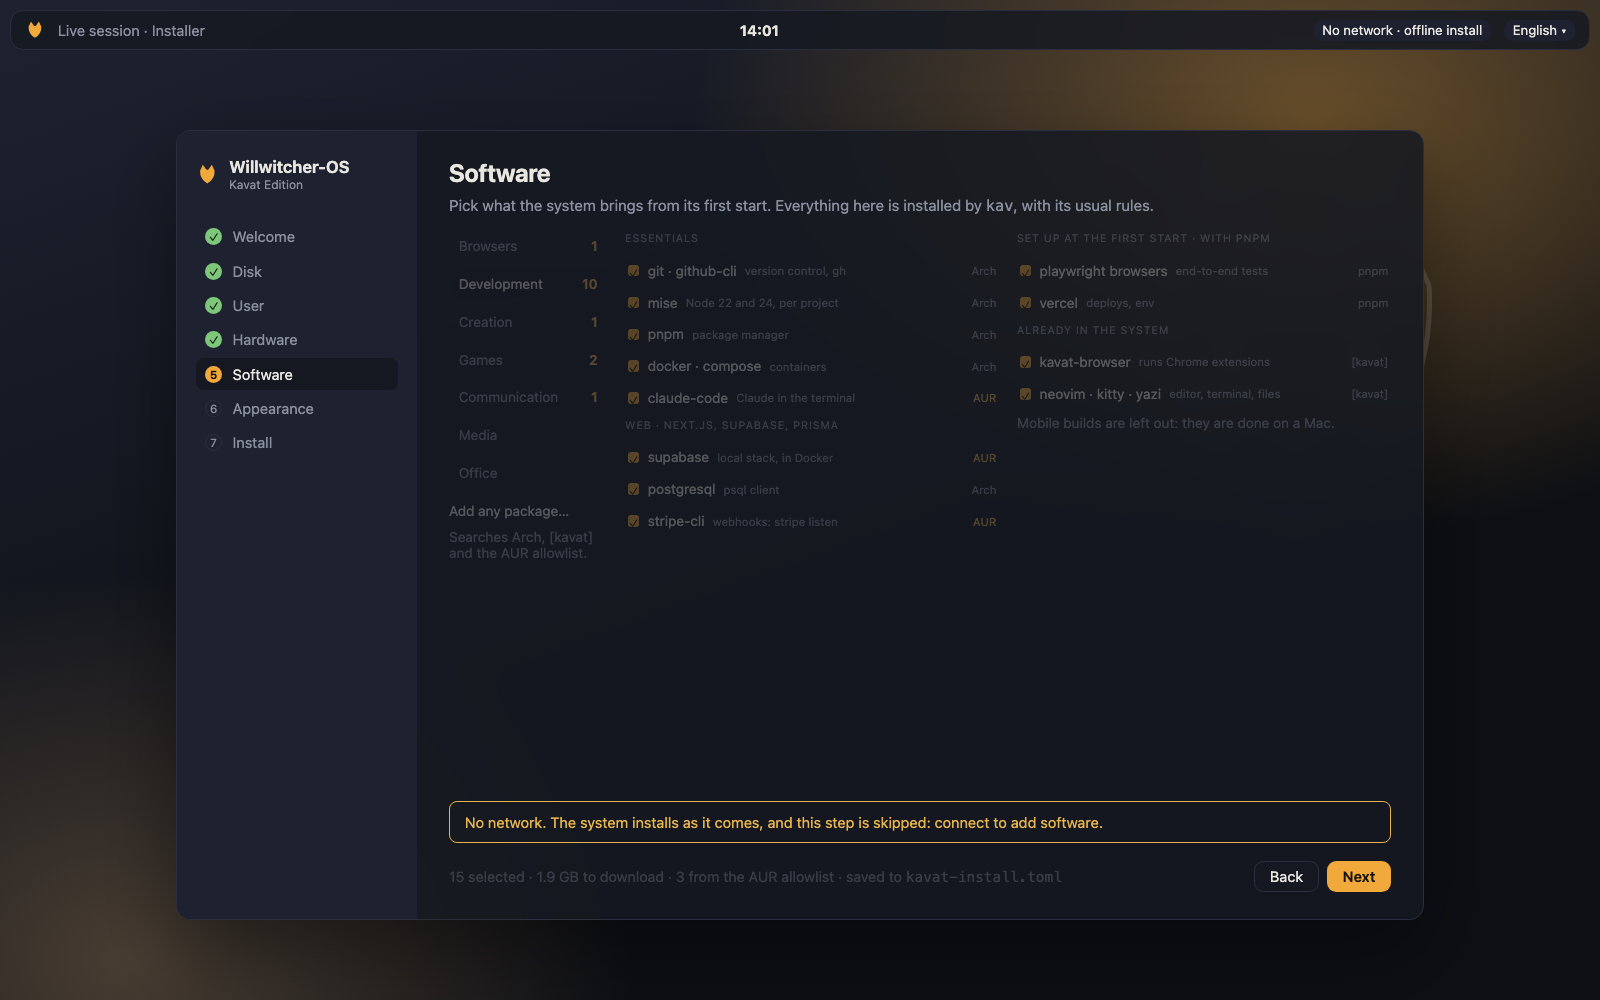
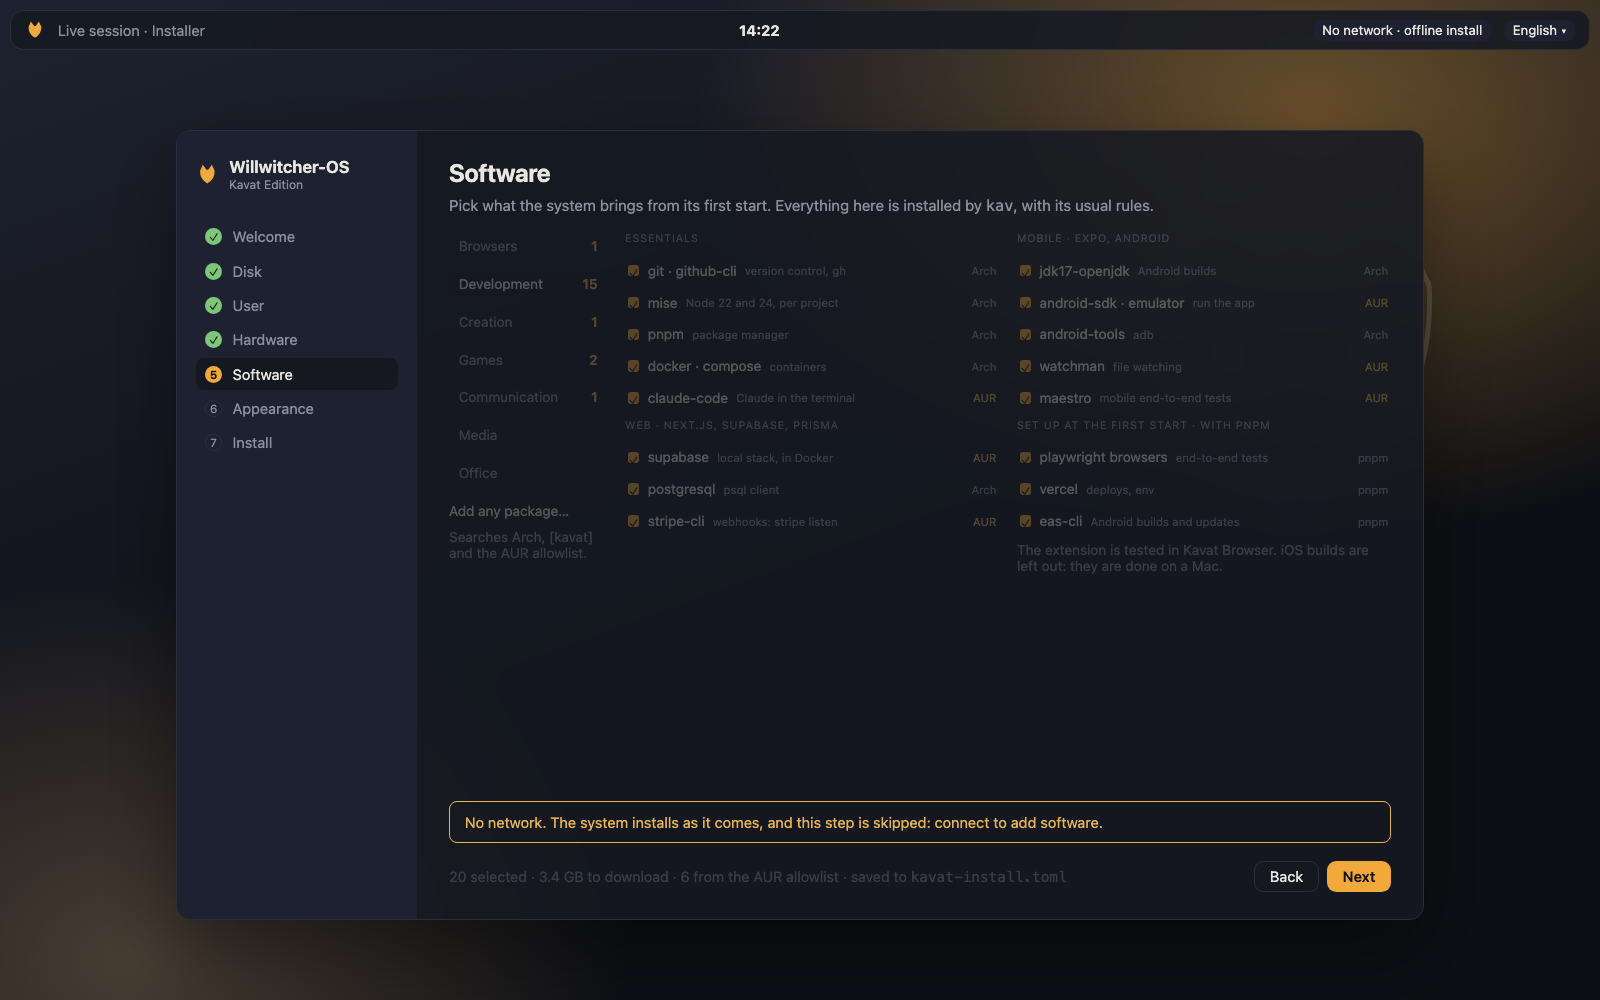
Design: Development keeps the mobile tools, for Android
The mobile group returns to the installer's Development category, limited to
what can be built and tested on the Arch PC: JDK 17, the Android SDK with its
emulator, android-tools, watchman and maestro, plus eas-cli through pnpm.
iOS builds stay on a Mac.

Design document and mockup follow; the two installer-software screenshots are
retaken.

diff --git a/docs/mockup/index.html b/docs/mockup/index.html
@@ -1040,10 +1040,10 @@ body.lit:not(.bare) .monitor{animation:lit 1.15s ease-in-out infinite alternate}
         <h2>Software</h2>
         <p>Pick what the system brings from its first start. Everything here is installed by <span class="mono">kav</span>, with its usual rules.</p>
         <div class="sw3">
-          <div><div class="scat ">Browsers<b>1</b></div><div class="scat on">Development<b>10</b></div><div class="scat ">Creation<b>1</b></div><div class="scat ">Games<b>2</b></div><div class="scat ">Communication<b>1</b></div><div class="scat ">Media</div><div class="scat ">Office</div><div class="find" style="margin-top:.4em">Add any package…</div><div class="muted" style="white-space:normal">Searches Arch, [kavat] and the AUR allowlist.</div></div><div><div class="sec">Essentials</div><div class="pk on"><i>✓</i><span>git · github-cli</span><small>version control, gh</small><u class="">Arch</u></div><div class="pk on"><i>✓</i><span>mise</span><small>Node 22 and 24, per project</small><u class="">Arch</u></div><div class="pk on"><i>✓</i><span>pnpm</span><small>package manager</small><u class="">Arch</u></div><div class="pk on"><i>✓</i><span>docker · compose</span><small>containers</small><u class="">Arch</u></div><div class="pk on"><i>✓</i><span>claude-code</span><small>Claude in the terminal</small><u class="aur">AUR</u></div><div class="sec">Web · Next.js, Supabase, Prisma</div><div class="pk on"><i>✓</i><span>supabase</span><small>local stack, in Docker</small><u class="aur">AUR</u></div><div class="pk on"><i>✓</i><span>postgresql</span><small>psql client</small><u class="">Arch</u></div><div class="pk on"><i>✓</i><span>stripe-cli</span><small>webhooks: stripe listen</small><u class="aur">AUR</u></div></div><div><div class="sec">Set up at the first start · with pnpm</div><div class="pk on"><i>✓</i><span>playwright browsers</span><small>end-to-end tests</small><u class="">pnpm</u></div><div class="pk on"><i>✓</i><span>vercel</span><small>deploys, env</small><u class="">pnpm</u></div><div class="sec">Already in the system</div><div class="pk on"><i>✓</i><span>kavat-browser</span><small>runs Chrome extensions</small><u class="">[kavat]</u></div><div class="pk on"><i>✓</i><span>neovim · kitty · yazi</span><small>editor, terminal, files</small><u class="">[kavat]</u></div><div class="muted" style="white-space:normal">Mobile builds are left out: they are done on a Mac.</div></div>
+          <div><div class="scat ">Browsers<b>1</b></div><div class="scat on">Development<b>15</b></div><div class="scat ">Creation<b>1</b></div><div class="scat ">Games<b>2</b></div><div class="scat ">Communication<b>1</b></div><div class="scat ">Media</div><div class="scat ">Office</div><div class="find" style="margin-top:.4em">Add any package…</div><div class="muted" style="white-space:normal">Searches Arch, [kavat] and the AUR allowlist.</div></div><div><div class="sec">Essentials</div><div class="pk on"><i>✓</i><span>git · github-cli</span><small>version control, gh</small><u class="">Arch</u></div><div class="pk on"><i>✓</i><span>mise</span><small>Node 22 and 24, per project</small><u class="">Arch</u></div><div class="pk on"><i>✓</i><span>pnpm</span><small>package manager</small><u class="">Arch</u></div><div class="pk on"><i>✓</i><span>docker · compose</span><small>containers</small><u class="">Arch</u></div><div class="pk on"><i>✓</i><span>claude-code</span><small>Claude in the terminal</small><u class="aur">AUR</u></div><div class="sec">Web · Next.js, Supabase, Prisma</div><div class="pk on"><i>✓</i><span>supabase</span><small>local stack, in Docker</small><u class="aur">AUR</u></div><div class="pk on"><i>✓</i><span>postgresql</span><small>psql client</small><u class="">Arch</u></div><div class="pk on"><i>✓</i><span>stripe-cli</span><small>webhooks: stripe listen</small><u class="aur">AUR</u></div></div><div><div class="sec">Mobile · Expo, Android</div><div class="pk on"><i>✓</i><span>jdk17-openjdk</span><small>Android builds</small><u class="">Arch</u></div><div class="pk on"><i>✓</i><span>android-sdk · emulator</span><small>run the app</small><u class="aur">AUR</u></div><div class="pk on"><i>✓</i><span>android-tools</span><small>adb</small><u class="">Arch</u></div><div class="pk on"><i>✓</i><span>watchman</span><small>file watching</small><u class="aur">AUR</u></div><div class="pk on"><i>✓</i><span>maestro</span><small>mobile end-to-end tests</small><u class="aur">AUR</u></div><div class="sec">Set up at the first start · with pnpm</div><div class="pk on"><i>✓</i><span>playwright browsers</span><small>end-to-end tests</small><u class="">pnpm</u></div><div class="pk on"><i>✓</i><span>vercel</span><small>deploys, env</small><u class="">pnpm</u></div><div class="pk on"><i>✓</i><span>eas-cli</span><small>Android builds and updates</small><u class="">pnpm</u></div><div class="muted" style="white-space:normal">The extension is tested in Kavat Browser. iOS builds are left out: they are done on a Mac.</div></div>
         </div>
         <div class="snonet">No network. The system installs as it comes, and this step is skipped: connect to add software.</div>
-        <div class="foot"><span class="muted" style="font-size:.9em">15 selected · 1.9 GB to download · 3 from the AUR allowlist · saved to <span class="mono">kavat-install.toml</span></span><div class="btns" style="margin:0"><span class="btn">Back</span><span class="btn pri">Next</span></div></div>
+        <div class="foot"><span class="muted" style="font-size:.9em">20 selected · 3.4 GB to download · 6 from the AUR allowlist · saved to <span class="mono">kavat-install.toml</span></span><div class="btns" style="margin:0"><span class="btn">Back</span><span class="btn pri">Next</span></div></div>
       </div>
     </div>
   </section>

diff --git a/docs/DESIGN.md b/docs/DESIGN.md
@@ -79,15 +79,16 @@ Ideas propias sobre el Calamares de serie:
 - **Necesita red**: lo que no viene en el sistema base se descarga durante la instalación. Sin red, el paso se salta y no deja añadir nada; el sistema se instala tal como viene.
 - **Se recuerda**: lo marcado queda en `kavat-install.toml`, así que reinstalar lo repite.
 
-La categoría Development trae lo que hace falta para trabajar en lanequarters, salvo su app móvil, que se compila en una Mac.
+La categoría Development trae lo que hace falta para trabajar en lanequarters, incluida su app móvil en Android. La de iOS se compila en una Mac.
 
 | Grupo | Programas | Para qué |
 | --- | --- | --- |
 | Esenciales | git, github-cli, mise, pnpm, docker con compose, claude-code | Los proyectos piden Node 22 o superior y pnpm; mise pone la versión de Node de cada uno |
 | Web | supabase, postgresql (cliente `psql`), stripe-cli | `supabase start` levanta la base local en Docker; `stripe listen` recibe los webhooks |
-| Al primer arranque, con pnpm | Navegadores de Playwright, vercel | No son paquetes de pacman: los instala pnpm y `kav` no los gestiona |
+| Móvil, Android | jdk17-openjdk, SDK de Android con emulador, android-tools, watchman, maestro | Compilar la app de Expo para Android y probarla en el emulador o en un teléfono |
+| Al primer arranque, con pnpm | Navegadores de Playwright, vercel, eas-cli | No son paquetes de pacman: los instala pnpm y `kav` no los gestiona |
 
-La extensión de navegador se prueba en `kavat-browser`, que es un fork de Chromium y admite las extensiones de Chrome. Tres de la lista vienen del AUR (claude-code, supabase y stripe-cli) y necesitan su entrada en la allowlist; en qué repositorio está cada paquete se comprueba al escribirla.
+La extensión de navegador se prueba en `kavat-browser`, que es un fork de Chromium y admite las extensiones de Chrome. Seis de la lista vienen del AUR (claude-code, supabase, stripe-cli, el SDK de Android, watchman y maestro) y necesitan su entrada en la allowlist; en qué repositorio está cada paquete se comprueba al escribirla.
 
 ## Arranque
 
@@ -802,7 +803,7 @@ Terminal, shell, editor y navegador ya están decididos; el resto son valores ha
 | Monitor del sistema | btop | `kavat-top` (fork) |
 | Capturas y grabación | grim + slurp, grabador integrado en el shell | Integrado en `kavat-shell` |
 | Portapapeles | cliphist con historial en el lanzador | Integrado en `kavat-shell` |
-| Desarrollo | git, github-cli, mise, pnpm, docker, claude-code, supabase, postgresql y stripe-cli | Categoría Development del instalador |
+| Desarrollo | git, github-cli, mise, pnpm, docker, claude-code, supabase, postgresql y stripe-cli; para Android, JDK 17, el SDK con emulador, android-tools, watchman y maestro | Categoría Development del instalador |
 | Visores | imv para imágenes, mpv para vídeo y audio, zathura para PDF; los comprimidos se abren en Yazi como carpetas | Solo plantilla de tema |
 | Juego | MangoHud y gamescope | Categoría de juegos del instalador |
 | Red y Bluetooth | NetworkManager y BlueZ | Página en `kavat-shell` |
@@ -974,7 +975,7 @@ Las decisiones de esta tabla están tomadas; las que el análisis de otras distr
 | Gestor de paquetes | `kav` con comandos y con TUI completa sobre el mismo núcleo; migraciones, intervenciones guiadas, guardas de transacción y comprobación de salud con memoria |
 | Dependencias | Lo que un ajuste, una skill o un plugin necesita lo instala y lo protege `kav` |
 | Software diario | Kitty, zsh, Neovim, Yazi y un fork de Chromium |
-| Software en el instalador | Se elige programa a programa en el paso Software y lo instala `kav`; necesita red, y sin ella el paso se salta. La categoría Development cubre lanequarters, sin su app móvil |
+| Software en el instalador | Se elige programa a programa en el paso Software y lo instala `kav`; necesita red, y sin ella el paso se salta. La categoría Development cubre lanequarters, con su app móvil en Android y sin la de iOS |
 | Prompt de zsh | starship con preset mínimo, sin módulos que lancen procesos |
 | Editor | Neovim en el núcleo, híbrido: modos de Vim con navegación y atajos de VS Code; panel lateral de Claude y otros paneles, abiertos como divisiones de Kitty |
 | Marketplace de plugins | Partiendo de store.nvim, con catálogo verificado y presets encima |

diff --git a/docs/PENDING.md b/docs/PENDING.md
@@ -14,4 +14,4 @@ Aquí está solo lo que espera tu decisión. Todo lo demás vive en el [document
 
 No hay decisiones pendientes.
 
-La última, D21, se resolvió el 12 de noviembre de 2026: elegir el software en el instalador quedó aprobado y ya está en el documento de diseño, con tres ajustes tuyos. Firefox sale de Development, porque la extensión se prueba en `kavat-browser`. El grupo de móvil sale entero, porque esa app se compila en una Mac. Y sin red no hay cola: el paso Software se salta.
+La última, D21, se resolvió el 12 de noviembre de 2026: elegir el software en el instalador quedó aprobado y ya está en el documento de diseño, con tres ajustes tuyos. Firefox sale de Development, porque la extensión se prueba en `kavat-browser`. El grupo de móvil se queda solo con Android, que sí se prueba en el PC con Arch; iOS se compila en una Mac. Y sin red no hay cola: el paso Software se salta.
